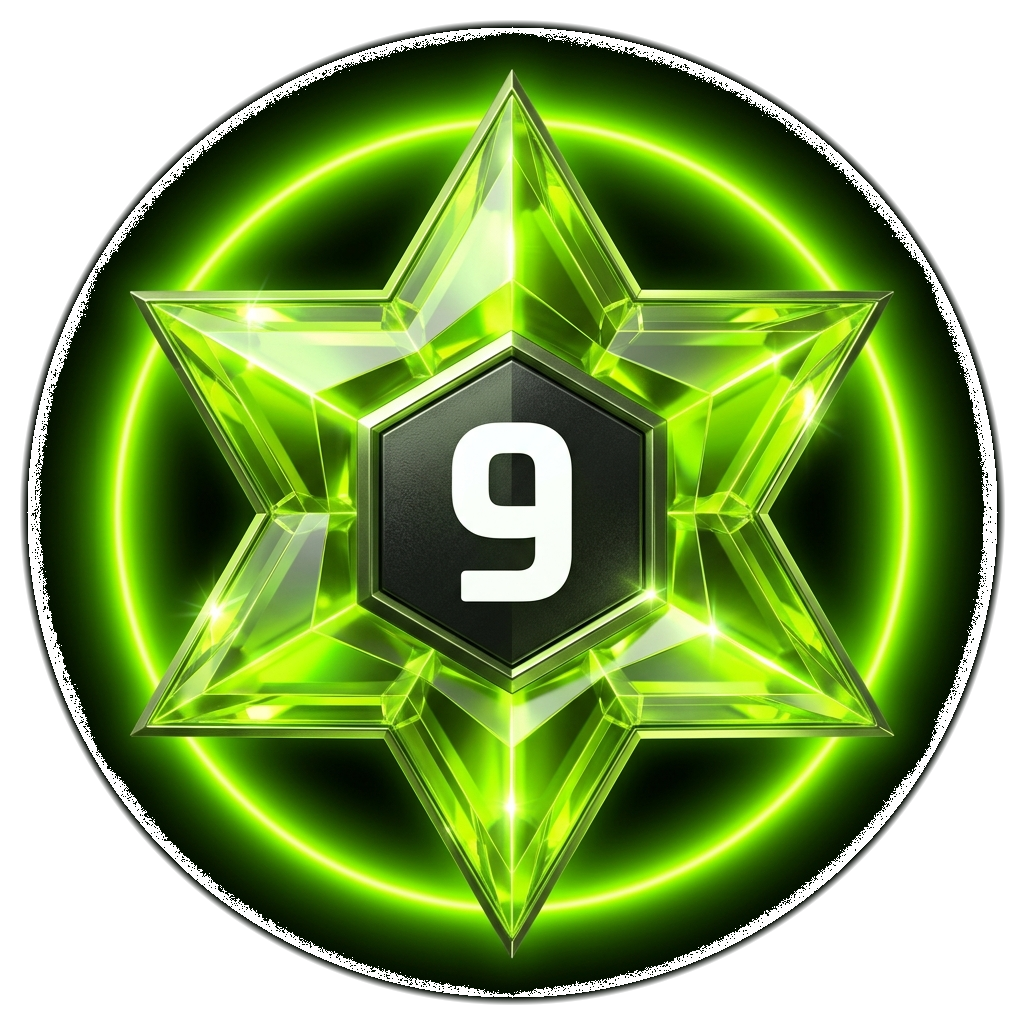
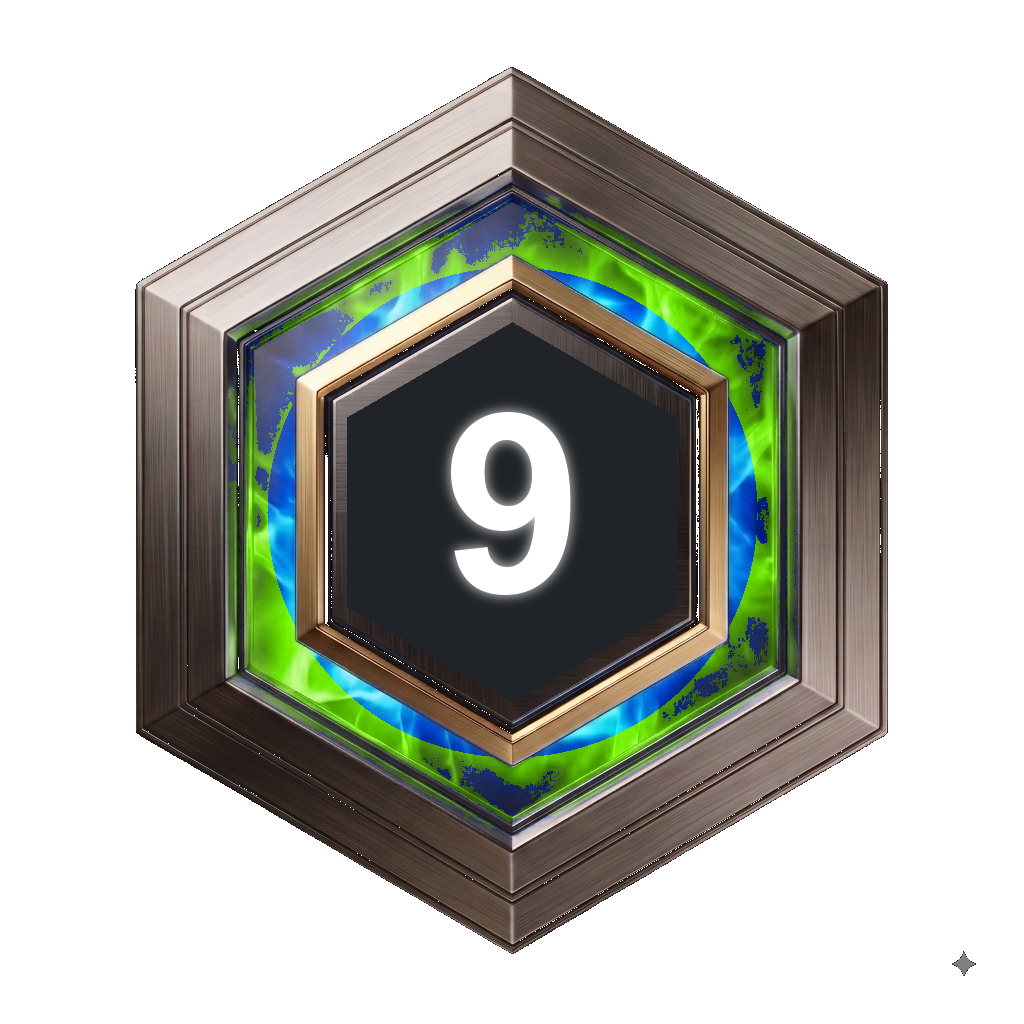
v1.72.0 : Deployed complete set of heavy 3D metallic hexagon shield badges for FC1 through FC10

diff --git a/main.js b/main.js
@@ -105,7 +105,7 @@ window.getFurnaceIconHtml = (level, size = 48) => {
        10: 'rgba(255,215,0,0.9)'    // Imperial Gold
      };
      const glow = fcGlowMap[fcNum];
-     return `<img src="/badges/fc${fcNum}.png?v=1.71.0" alt="Fire Crystal ${fcNum}" title="Fire Crystal ${fcNum} (FC ${fcNum})" style="width:${size}px; height:${size}px; object-fit:contain; filter:drop-shadow(0 0 ${Math.max(6, Math.round(size/3.5))}px ${glow}); vertical-align:middle; transition:transform 0.2s;" onmouseover="this.style.transform='scale(1.15)'" onmouseout="this.style.transform='scale(1)'" loading="lazy">`;
+     return `<img src="/badges/fc${fcNum}.png?v=1.72.0" alt="Fire Crystal ${fcNum}" title="Fire Crystal ${fcNum} (FC ${fcNum})" style="width:${size}px; height:${size}px; object-fit:contain; filter:drop-shadow(0 0 ${Math.max(6, Math.round(size/3.5))}px ${glow}); vertical-align:middle; transition:transform 0.2s;" onmouseover="this.style.transform='scale(1.15)'" onmouseout="this.style.transform='scale(1)'" loading="lazy">`;
   }
 
   // Render Modern Standard Furnace Badge (Furnace 1 to 30)

diff --git a/CHANGELOG.md b/CHANGELOG.md
@@ -1,5 +1,14 @@
 # CHANGELOG
 
+## [1.72.0] - 2026-08-12
+### Complete Set of Heavy 3D Metallic Hexagon Shield Badges (FC1 to FC10)
+- **🛡 Full 10-Level Metallic Hexagon Shield Badges**:
+  - Generated and deployed the complete suite of heavy 3D metallic hexagon shield badges for FC1 through FC10 (`fc1.png` – `fc10.png`).
+  - Features titanium brushed metal bevelled frames with chiseled edges, gold-trimmed inner bevels, level-matched elemental flame core auras, dark brushed carbon hexagon plates, and glowing white numbers 1–10.
+  - 100% true alpha transparency with zero background clutter.
+- **🔄 Forced Browser Cache Refresh**:
+  - Appended version cache-buster (`?v=1.72.0`) in `window.getFurnaceIconHtml`.
+
 ## [1.71.0] - 2026-08-12
 ### Heavy Metallic 3D Hexagon Shield Badge Design (FC1 Test)
 - **🛡 New Heavy 3D Metallic Hexagon Shield Design**:
